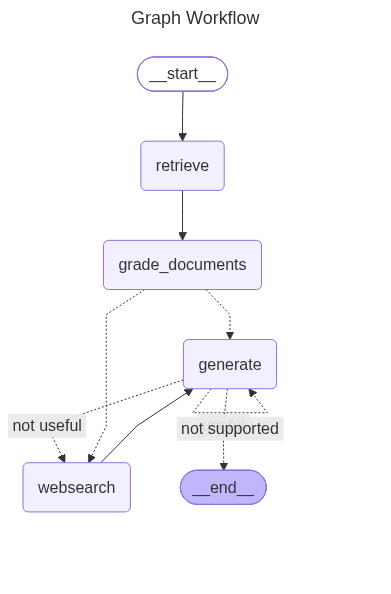
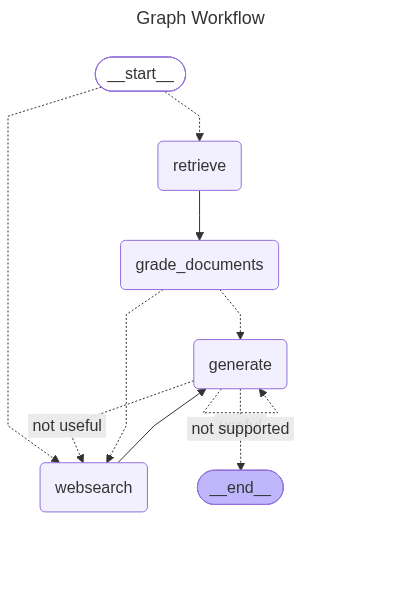
feat: implement Adaptive RAG'

diff --git a/graph/graph.py b/graph/graph.py
@@ -4,6 +4,7 @@ from langgraph.graph import END, StateGraph
 
 from graph.chains.answer_grader import answer_grader
 from graph.chains.hallucination_grader import hallucination_grader
+from graph.chains.router import question_router, RouteQuery
 from graph.consts import RETRIEVE, GRADE_DOCUMENTS, GENERATE, WEBSEARCH
 from graph.nodes import generate, grade_documents, retrieve, web_search
 from graph.state import GraphState
@@ -47,6 +48,19 @@ def grade_generation_grounded_in_documents_and_question(state: GraphState) -> st
     else:
         print("---DECISION: GENERATION IS NOT GROUNDED IN DOCUMENTS, RE-TRY---")
         return "not supported"
+
+
+def route_question(state: GraphState) -> str:
+    print("---ROUTE QUESTION---")
+    question = state["question"]
+    source: RouteQuery = question_router.invoke({"question": question})
+    if source.datasource == WEBSEARCH:
+        print("---ROUTE QUESTION TO WEB SEARCH---")
+        return WEBSEARCH
+    elif source.datasource == "vectorstore":
+        print("---ROUTE QUESTION TO RAG---")
+        return RETRIEVE
+
     
 
 workflow = StateGraph(GraphState)
@@ -56,7 +70,13 @@ workflow.add_node(GRADE_DOCUMENTS, grade_documents)
 workflow.add_node(GENERATE, generate)
 workflow.add_node(WEBSEARCH, web_search)
 
-workflow.set_entry_point(RETRIEVE)
+workflow.set_conditional_entry_point(
+    route_question,
+    {
+        WEBSEARCH: WEBSEARCH,
+        RETRIEVE: RETRIEVE,
+    }
+)
 workflow.add_edge(RETRIEVE, GRADE_DOCUMENTS)
 workflow.add_conditional_edges(
     GRADE_DOCUMENTS, 

diff --git a/graph/chains/router.py b/graph/chains/router.py
@@ -1,0 +1,30 @@
+from typing import Literal
+
+from langchain_core.prompts import ChatPromptTemplate
+from pydantic import BaseModel, Field
+from langchain_ollama import ChatOllama
+
+
+class RouteQuery(BaseModel):
+    """Route a user query to the most relevant datasource."""
+
+    datasource: Literal["vectorstore", "websearch"] = Field(
+        ...,
+        description="Given a user question choose to route it to web search or a vectorstore.",
+    )
+
+
+llm = ChatOllama(model="qwen3:1.7b", temperature = 0)
+structured_llm_router = llm.with_structured_output(RouteQuery)
+
+system = """You are an expert at routing a user question to a vectorstore or web search.
+    The vectorstore contains documents related to agents, prompt engineering, and adversarial attacks.
+    Use the vectorstore for questions on these topics. For all else, use web-search."""
+route_prompt = ChatPromptTemplate.from_messages(
+    [
+        ("system", system),
+        ("human", "{question}"),
+    ]
+)
+
+question_router = route_prompt | structured_llm_router

diff --git a/graph/chains/tests/test_chains.py b/graph/chains/tests/test_chains.py
@@ -6,6 +6,7 @@ from graph.chains.retrieval_grader import GradeDocuments, retrieval_grader
 from graph.chains.generation import generation_chain
 from ingestion import retriever
 from graph.chains.hallucination_grader import hallucination_grader, GradeHallucinations
+from graph.chains.router import question_router, RouteQuery
 
 load_dotenv()
 
@@ -63,4 +64,18 @@ def test_hallucination_grader_answer_no() -> None:
         }
     )
     assert not res.binary_score
+
+
+def test_router_to_vectorstore() -> None:
+    question = "agent memory"
+
+    res: RouteQuery = question_router.invoke({"question": question})
+    assert res.datasource == "vectorstore"
+
+
+def test_router_to_websearch() -> None:
+    question = "how to make pizza"
+
+    res: RouteQuery = question_router.invoke({"question": question})
+    assert res.datasource == "websearch"
 
